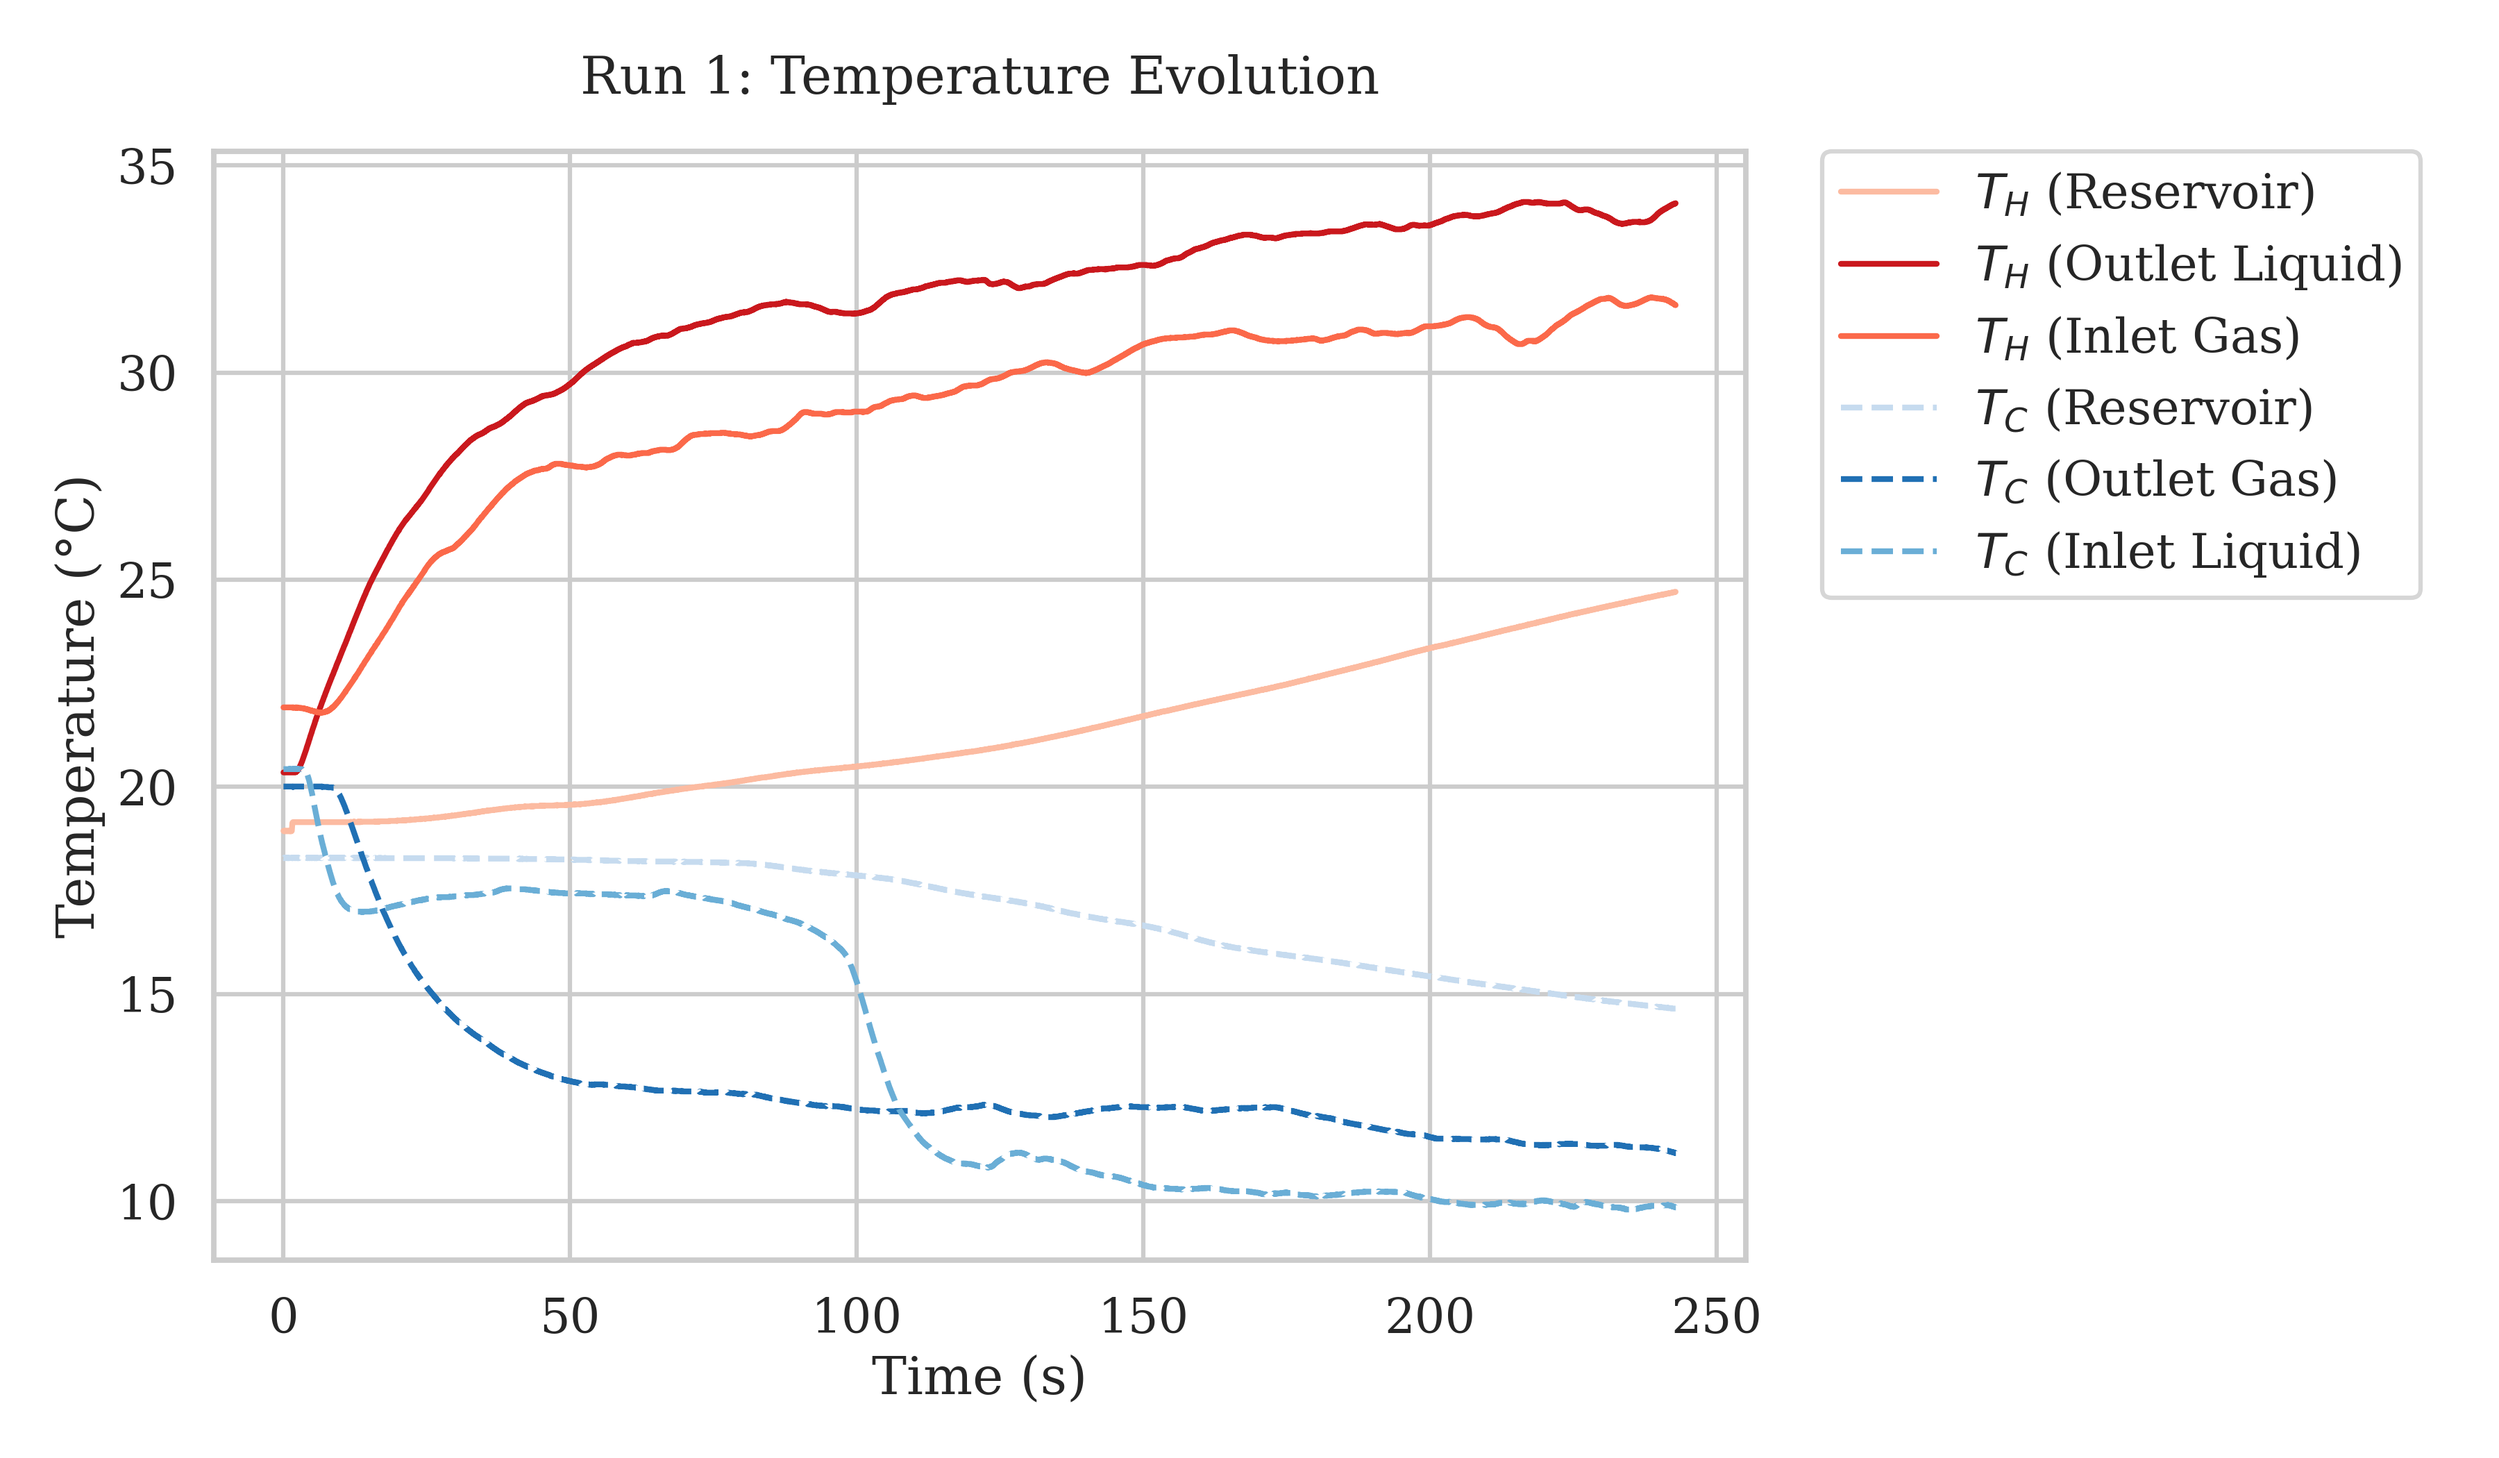
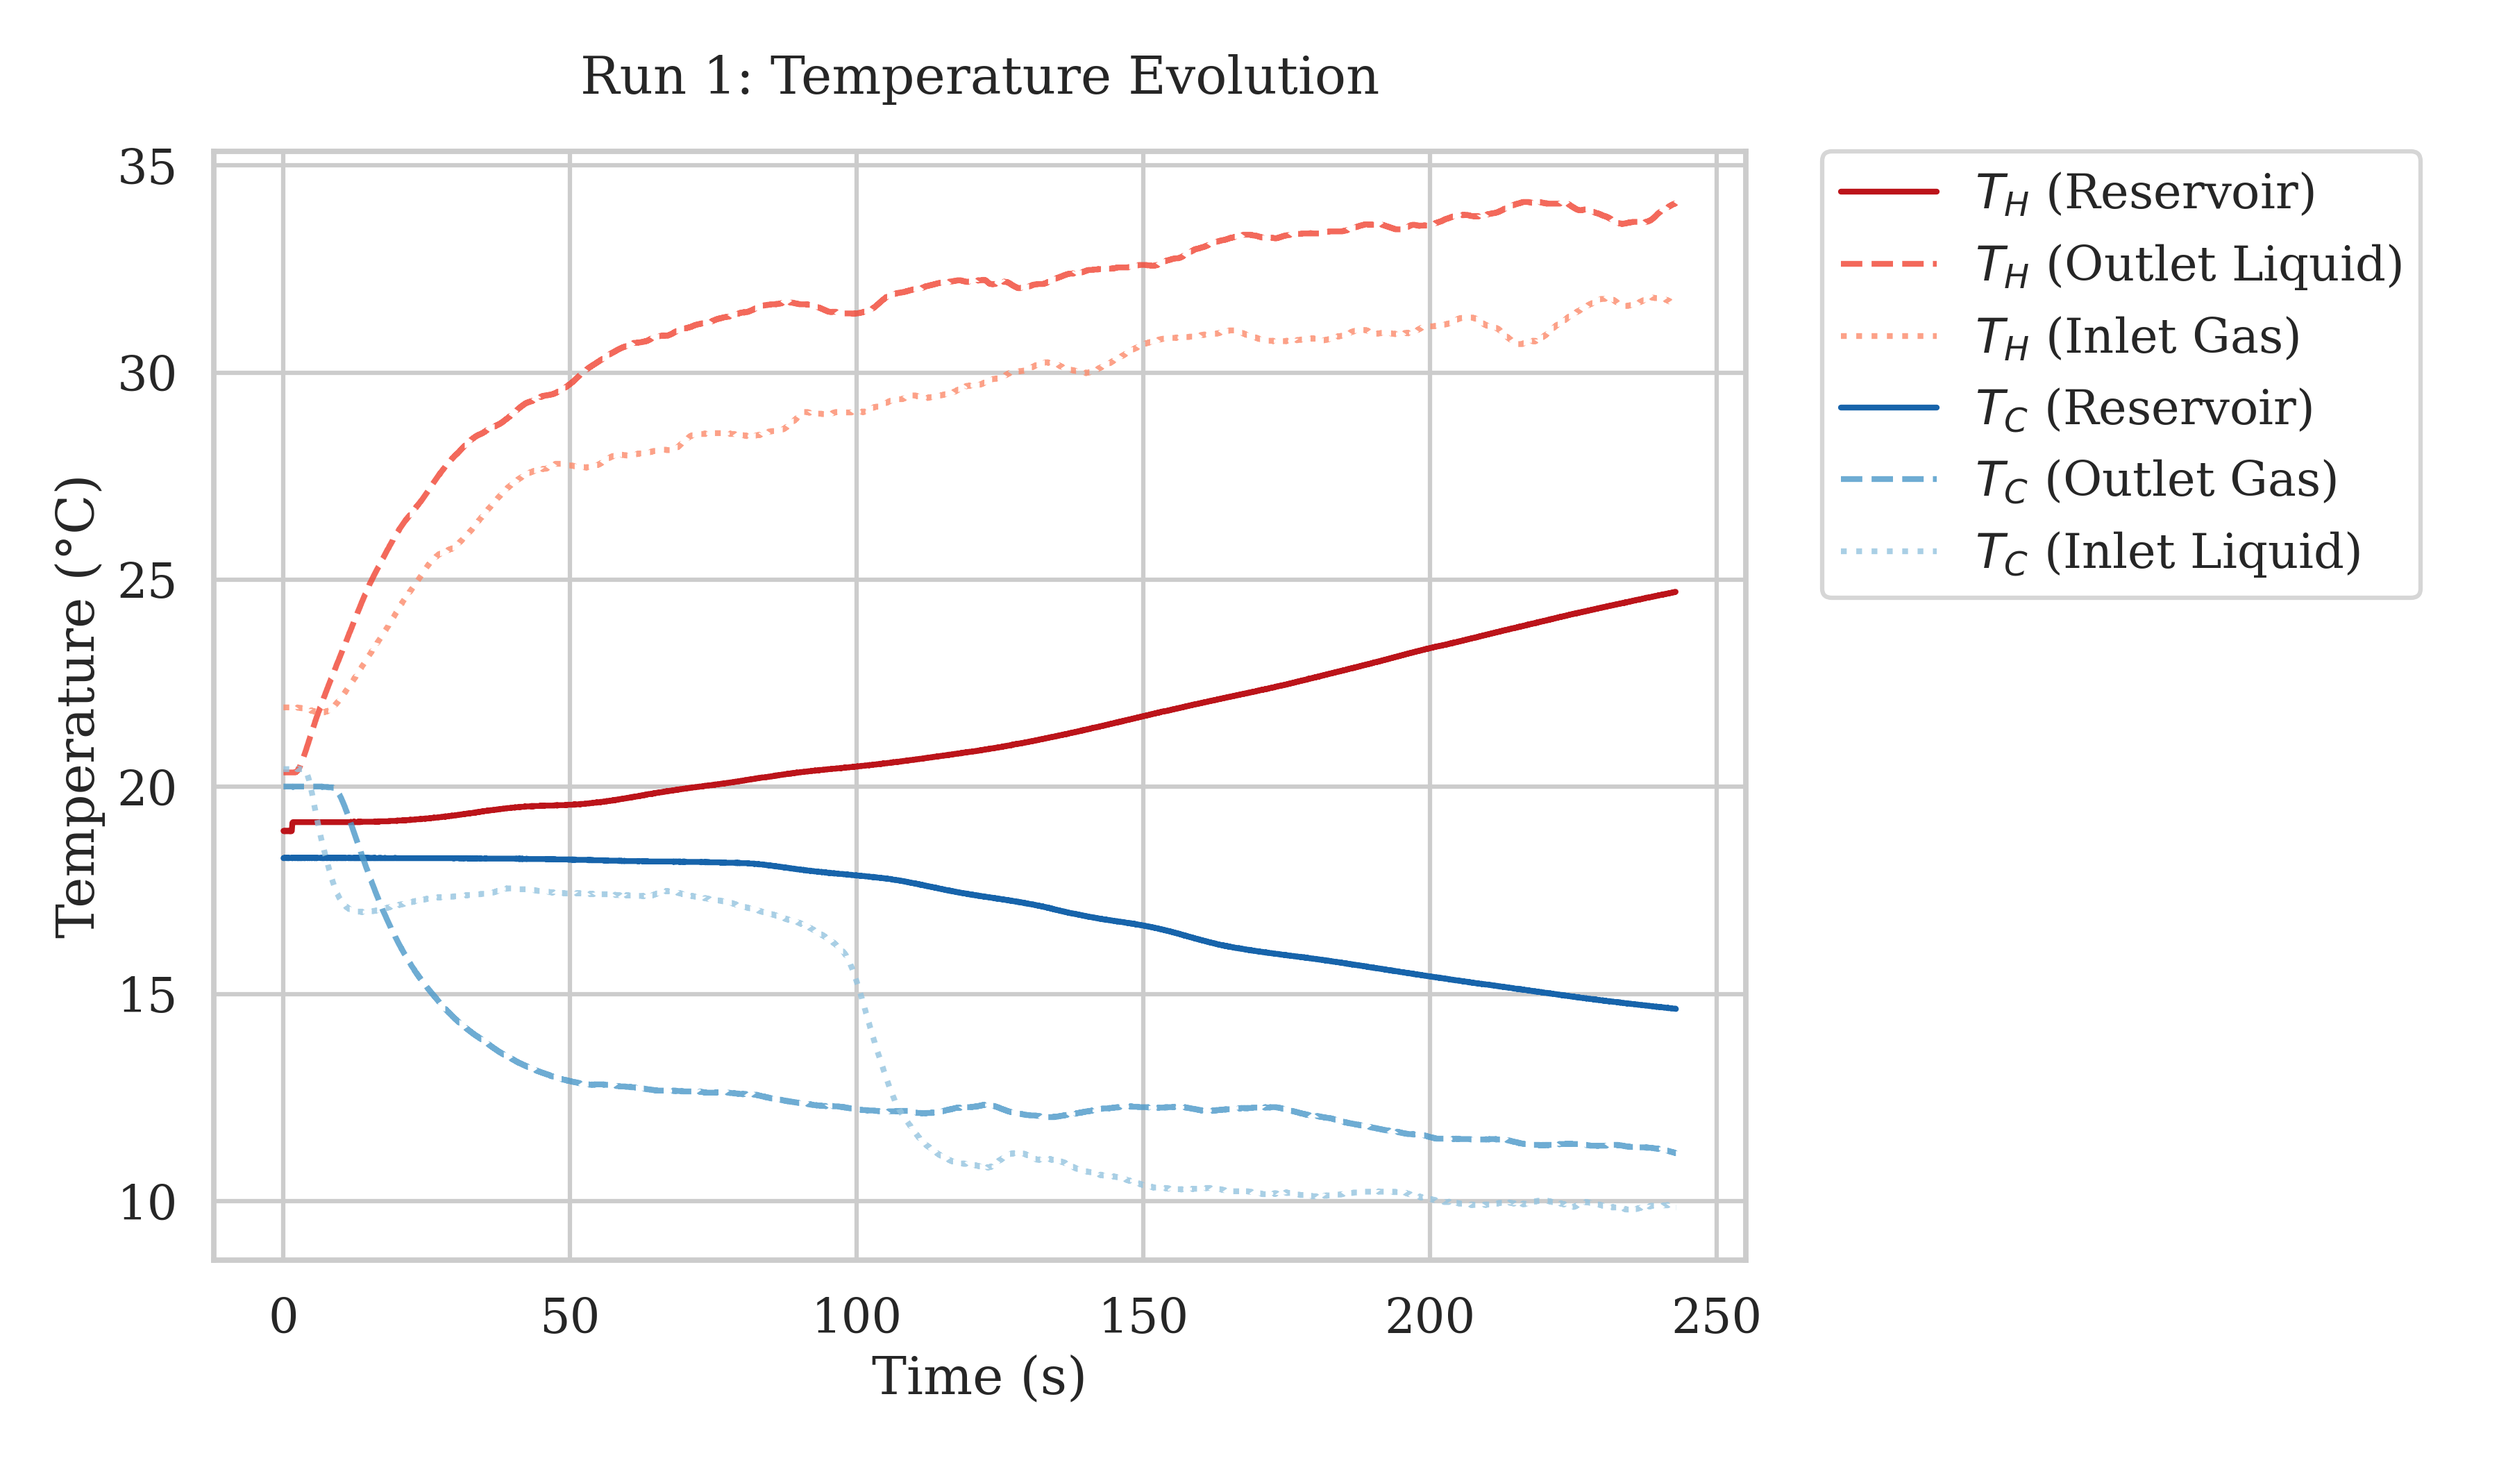
new plots

diff --git a/src/plot_data.py b/src/plot_data.py
@@ -96,9 +96,9 @@ def main():
     raw_run_3_force = load_lab_csv("../data/run_2_8_may.csv", run_name="Run #3")
     m_c = np.nanmean(raw_run_3_force[:, 8]) / g
 
-    # Define color palettes
-    hot_colors = sns.color_palette("Reds", 3)
-    cold_colors = sns.color_palette("Blues", 3)
+    # Define color palettes (generate 4, drop the lightest, then reverse so index 0 is darkest)
+    hot_colors = sns.color_palette("Reds", 4)[1:][::-1]
+    cold_colors = sns.color_palette("Blues", 4)[1:][::-1]
 
     # 1. Temperature Plots (Individual Files)
     runs = [
@@ -124,18 +124,30 @@ def main():
     for data, name in runs:
         plt.figure(figsize=(12, 7))
         t = data[:, 0]
+        line_styles = ["-", "--", ":"]
+        line_alphas = [1.0, 0.8, 0.8]
+
         # Hot channels (1-3)
         for i in range(3):
-            plt.plot(t, data[:, i + 1], label=hot_labels[i], color=hot_colors[-i], lw=2)
+            plt.plot(
+                t,
+                data[:, i + 1],
+                label=hot_labels[i],
+                color=hot_colors[i],
+                lw=2,
+                linestyle=line_styles[i],
+                alpha=line_alphas[i],
+            )
         # Cold channels (4-6)
         for i in range(3):
             plt.plot(
                 t,
                 data[:, i + 4],
                 label=cold_labels[i],
-                color=cold_colors[-i],
+                color=cold_colors[i],
                 lw=2,
-                linestyle="--",
+                linestyle=line_styles[i],
+                alpha=line_alphas[i],
             )
 
         plt.title(f"{name}: Temperature Evolution", pad=20)

diff --git a/src/error_estimate.py b/src/error_estimate.py
@@ -1,4 +1,5 @@
 import numpy as np
+
 from plot_data import load_lab_csv
 
 
@@ -60,7 +61,7 @@ def main():
     data_run_1 = load_lab_csv("../data/run_1_8_may.csv")
 
     # Masses from previous analysis
-    g = 9.81
+    g = 9.82  # Uppsala constant
     m_h = 32.25 / g
     m_c = 26.55 / g
 
